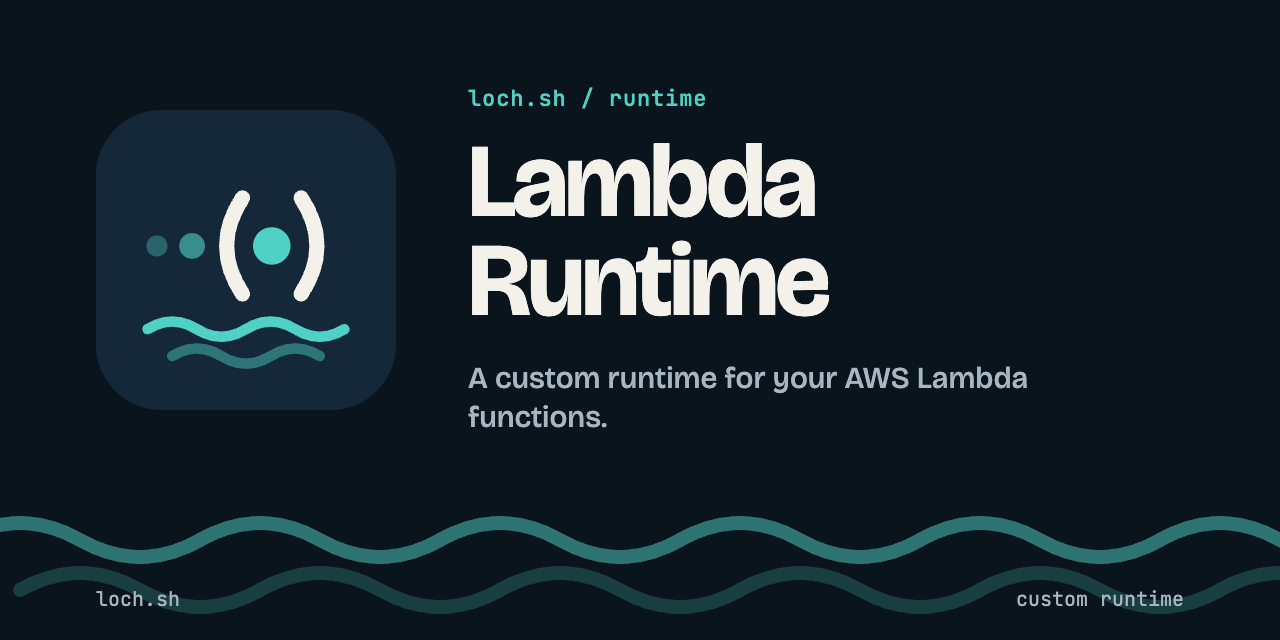
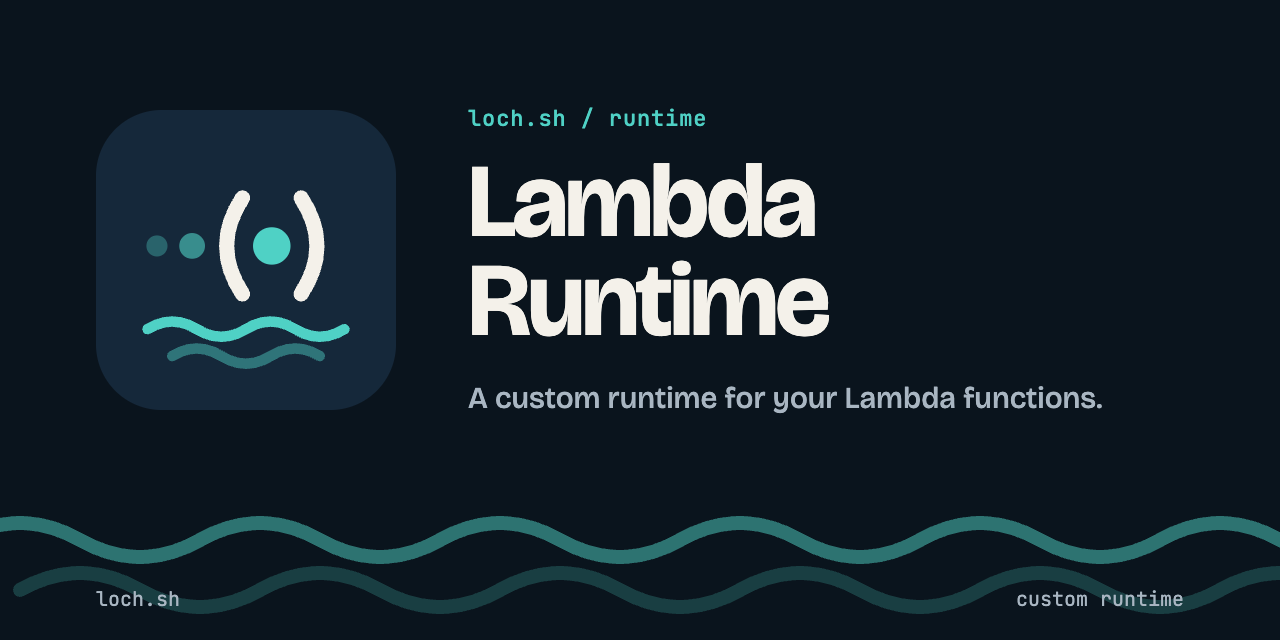
docs(readme): updated cover image
Claude-Session: https://claude.ai/code/session_01XwdKy7bZiPNbAv1JAWgQvE

Changed region(s): [[0.3438, 0.125, 0.6562, 0.5312], [0.3438, 0.5625, 0.875, 0.6875]]

diff --git a/README.md b/README.md
@@ -1,6 +1,6 @@
 # loch lambda-runtime
 
-![loch.sh Lambda Runtime: a custom runtime for your AWS Lambda functions](docs/cover.png)
+![loch.sh Lambda Runtime: a custom runtime for your Lambda functions](docs/cover.png)
 
 Run AWS Lambda functions in plain Docker containers, with the official AWS
 base images and unchanged handlers. No vendor lock-in: the runtime speaks
